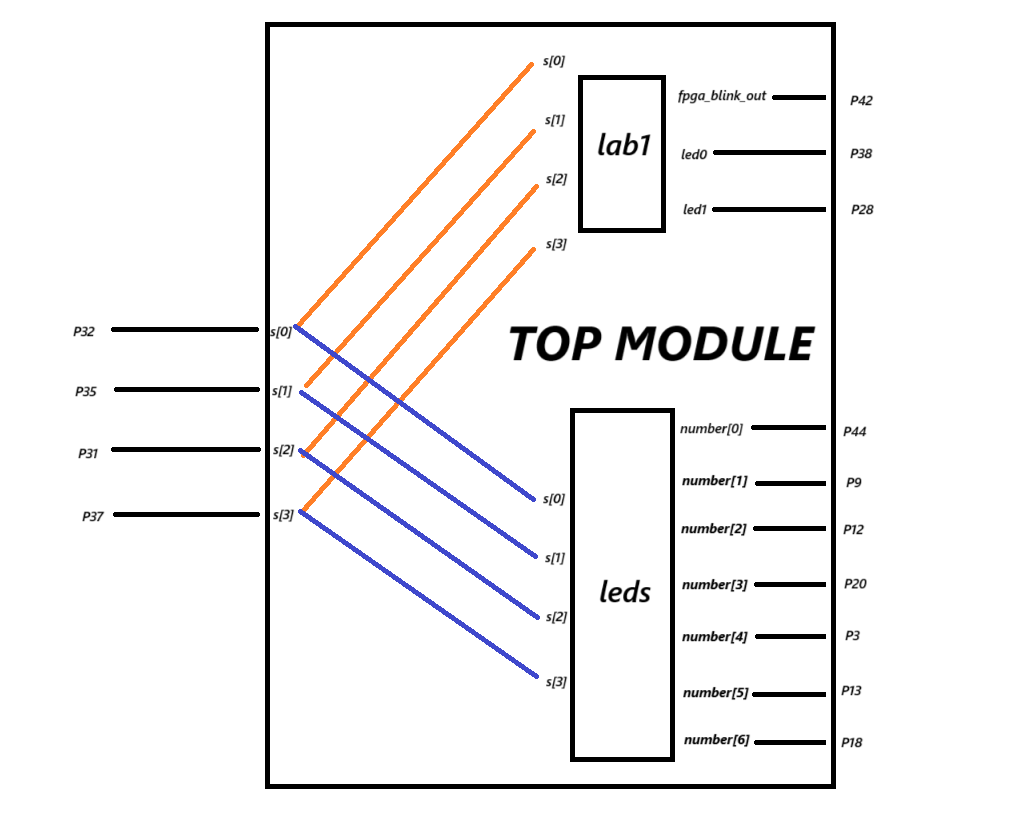
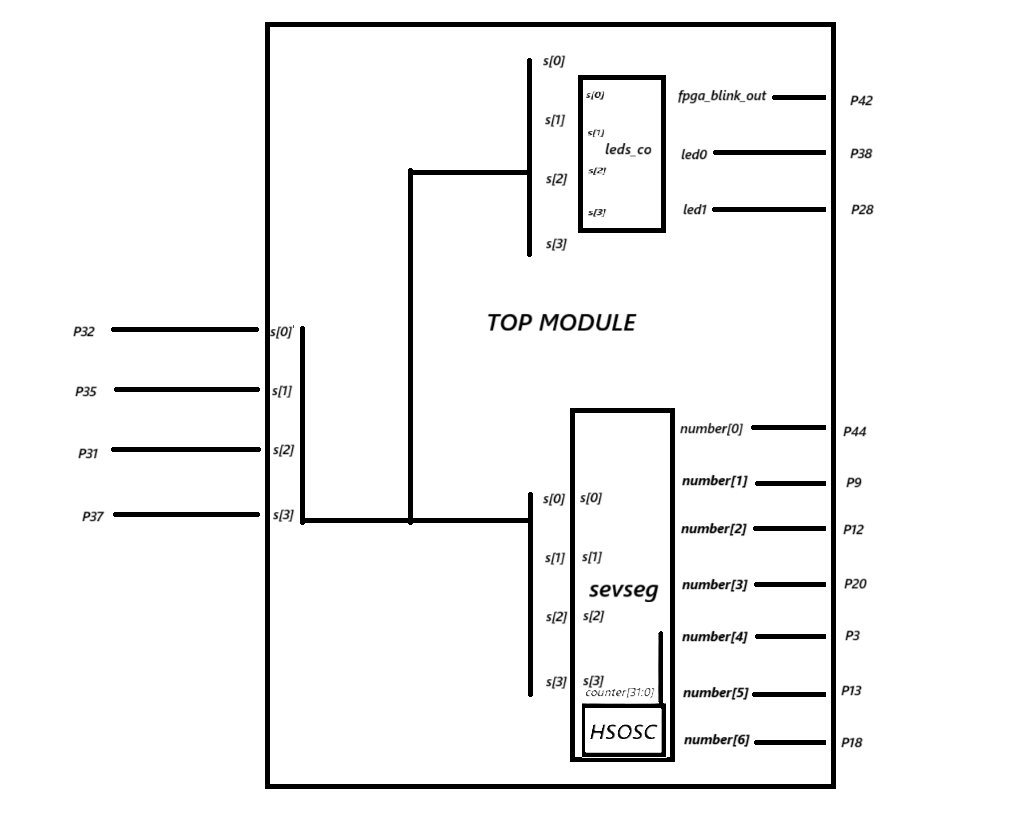
Built site for gh-pages

diff --git a/labs/lab3/lab3.html b/labs/lab3/lab3.html
@@ -67,6 +67,35 @@ ul.task-list li input[type="checkbox"] {
   }
 }</script>
 
+  <script src="https://cdnjs.cloudflare.com/polyfill/v3/polyfill.min.js?features=es6"></script>
+  <script src="https://cdn.jsdelivr.net/npm/mathjax@3/es5/tex-chtml-full.js" type="text/javascript"></script>
+
+<script type="text/javascript">
+const typesetMath = (el) => {
+  if (window.MathJax) {
+    // MathJax Typeset
+    window.MathJax.typeset([el]);
+  } else if (window.katex) {
+    // KaTeX Render
+    var mathElements = el.getElementsByClassName("math");
+    var macros = [];
+    for (var i = 0; i < mathElements.length; i++) {
+      var texText = mathElements[i].firstChild;
+      if (mathElements[i].tagName == "SPAN") {
+        window.katex.render(texText.data, mathElements[i], {
+          displayMode: mathElements[i].classList.contains('display'),
+          throwOnError: false,
+          macros: macros,
+          fleqn: false
+        });
+      }
+    }
+  }
+}
+window.Quarto = {
+  typesetMath
+};
+</script>
 
 <link rel="stylesheet" href="../../styles.css">
 </head>
@@ -151,7 +180,16 @@ ul.task-list li input[type="checkbox"] {
     <h2 id="toc-title">On this page</h2>
    
   <ul>
-  <li><a href="#lab-3-keypad-scanner" id="toc-lab-3-keypad-scanner" class="nav-link active" data-scroll-target="#lab-3-keypad-scanner">Lab 3: Keypad Scanner</a></li>
+  <li><a href="#lab-3-keypad-scanner" id="toc-lab-3-keypad-scanner" class="nav-link active" data-scroll-target="#lab-3-keypad-scanner">Lab 3: Keypad Scanner</a>
+  <ul class="collapse">
+  <li><a href="#electrical-calculations" id="toc-electrical-calculations" class="nav-link" data-scroll-target="#electrical-calculations">Electrical calculations</a></li>
+  <li><a href="#block-diagram" id="toc-block-diagram" class="nav-link" data-scroll-target="#block-diagram">Block Diagram</a></li>
+  <li><a href="#circuit-diagram" id="toc-circuit-diagram" class="nav-link" data-scroll-target="#circuit-diagram">Circuit Diagram</a></li>
+  <li><a href="#general-overview-of-the-systemcode" id="toc-general-overview-of-the-systemcode" class="nav-link" data-scroll-target="#general-overview-of-the-systemcode">General Overview of the system/code</a></li>
+  <li><a href="#fsm" id="toc-fsm" class="nav-link" data-scroll-target="#fsm">FSM</a></li>
+  <li><a href="#testbenches" id="toc-testbenches" class="nav-link" data-scroll-target="#testbenches">Testbenches</a></li>
+  <li><a href="#ai-prototype" id="toc-ai-prototype" class="nav-link" data-scroll-target="#ai-prototype">AI Prototype</a></li>
+  </ul></li>
   </ul>
 </nav>
     </div>
@@ -163,8 +201,129 @@ ul.task-list li input[type="checkbox"] {
 
 <section id="lab-3-keypad-scanner" class="level2">
 <h2 class="anchored" data-anchor-id="lab-3-keypad-scanner">Lab 3: Keypad Scanner</h2>
+<p>In this lab, we were tasked to make a display for a 4x4 keyboard that would show a different hex number after pressing a button, saving two numbers at a time.</p>
+<p>This Lab took around 18 hours to finish.</p>
+<section id="electrical-calculations" class="level3">
+<h3 class="anchored" data-anchor-id="electrical-calculations">Electrical calculations</h3>
+<p>In the Lab1, we used 5v as the V_in of the 7 segment display, which makes the display bleed a bit of current into every LED when off since 3.3v &lt; 5v. This was fixed by changing the V_in to 3.3v and recalculating the required resistance to be:</p>
+<p>For these LED’s, we used a 160Ω resistor</p>
+<p>Voltage drop of around 0.4V in the transistor, a red LED has a voltage drop of around 1.8v at the current we are driving them at, so:</p>
+<p><span class="math display">\[
+0.010 &gt; \frac{3.3-0.4-1.8}{R}
+\]</span> <span class="math display">\[
+R &gt; 110
+\]</span></p>
+<p>For the transisitor, we need to calculate the resistor that we will connect to the base: The desired base current is between 2-3 mA based on the datasheet and our desired output current (up to 70mA) and the voltage drop would be around 0.95Vm, we need to account that the total voltage is 3.3v, so:</p>
+<p><span class="math display">\[
+R = \frac{3.3-0.95}{0.005}
+\]</span> <span class="math display">\[
+R = 470
+\]</span></p>
+<p>In this case, we also chose 10mA for the 7 segment display since the datasheet does recommend a value closer to that, and it was very visible. The selected value was 160Ω. This value was also used for the normal LED’s used in the fulladder since they have similar current needs and voltage drops.</p>
+<p>This also corresponds to teh current ratings of teh 2N3906 Transistor we are using, which allows a maximum of 200mA to be drawn, meaning that having all segments on (7 per transistor) results in a total current draw of &lt;70mA.</p>
+</section>
+<section id="block-diagram" class="level3">
+<h3 class="anchored" data-anchor-id="block-diagram">Block Diagram</h3>
+<div class="quarto-figure quarto-figure-center">
+<figure class="figure">
+<p><img src="images\BlockDiagram.png" class="img-fluid figure-img"></p>
+<figcaption>Block Diagram</figcaption>
+</figure>
+</div>
+</section>
+<section id="circuit-diagram" class="level3">
+<h3 class="anchored" data-anchor-id="circuit-diagram">Circuit Diagram</h3>
+<div class="quarto-figure quarto-figure-center">
+<figure class="figure">
+<p><img src="images\CircuitdiagramLab3.png" class="img-fluid figure-img"></p>
+<figcaption>Circuit Diagram</figcaption>
+</figure>
+</div>
+</section>
+<section id="general-overview-of-the-systemcode" class="level3">
+<h3 class="anchored" data-anchor-id="general-overview-of-the-systemcode">General Overview of the system/code</h3>
+<p>The current code made works in an interesting way. We first defined a top module that is in charge of getting the clock and sending the calculated sout (data on specific hex number to display at a given time) to the sevseg module that controls the seven segment display. The oter module it calls is leds_co, which is in charge of managing all the seven segment LED logic, where we have to flip back and forth to only use 9 pins instead of 14 (more on this in lab2 website).</p>
+<p>In this case, we need to drive the rows at different times and read the columns, to prevent bouncing in the buttons and drive power to rows, we used the counter, specifically the range [25:23] and [21], where the 21’st bit will save col -&gt; savecol on the rising edge. In order to control the row output, we use the range [25:24], where we use the left shift operator to make the sequence, were this value can be anything from 0 to 3.</p>
+<p>1 &lt;&lt; 0 = 0001<br>
+1 &lt;&lt; 1 = 0010<br>
+1 &lt;&lt; 2 = 0100<br>
+1 &lt;&lt; 3 = 1000</p>
+<p>Then it repeats</p>
+<p>The 23’rd bit is used in the keypad decoder code where we only act on the rising edge of this bit since this is halfway from a row being assigned and it being unasigned, meaning any start behaviour and end behavior noise we get should not fall in the middle. generally this can be done by adding counters that check the signal a specific time after the row is switched (less robust), or other methods to reduce this noise may include low pass filters (not ideal for digital electronics since voltage in capacitors takes time to rise) or reducing frequency to reduce the percent of time where you have noise (ideally avoided to reduce unnecesary noise)</p>
+<p>The debouncer logic (shown below) works in a simple manner, where we start in the ~pressed state, this means we aren’t actively pressing the button. when something gets detected, col would not be 0, which is when we set N2 = N1 and N1 = {counter[2:1],coln}, where:</p>
+<p>counter[2:1] is the same part of the counter that controls row. Note that this variable inside the keydec module is different from the 32 bit counter. coln is defined as the column number, were we use if statements to the opposite to when we assigned rows:</p>
+<p>0001 –&gt; 0<br>
+001x –&gt; 1<br>
+01xx –&gt; 2<br>
+1xxx –&gt; 3</p>
+<p>In the code, it was chosen to use if statements instead of assuming that x were 0 since if you would press 3 buttons at once and release the first one that was detected, it could default to the first column, which is unpredictable behaviour we like to avoid.</p>
+</section>
+<section id="fsm" class="level3">
+<h3 class="anchored" data-anchor-id="fsm">FSM</h3>
+<div class="quarto-figure quarto-figure-center">
+<figure class="figure">
+<p><img src="images\FSMLab3.png" class="img-fluid figure-img"></p>
+<figcaption>FSM of the debouncer</figcaption>
+</figure>
+</div>
+<div class="quarto-figure quarto-figure-center">
+<figure class="figure">
+<p><img src="images\Lab3TransitionDiag.png" class="img-fluid figure-img"></p>
+<figcaption>FSM transition diagram</figcaption>
+</figure>
+</div>
+<p>Note: the FSM changes states on the rising edge of counter[23], not the clock directly.</p>
+</section>
+<section id="testbenches" class="level3">
+<h3 class="anchored" data-anchor-id="testbenches">Testbenches</h3>
+<div class="quarto-figure quarto-figure-center">
+<figure class="figure">
+<p><img src="images\Lab3clocktb.png" class="img-fluid figure-img"></p>
+<figcaption>Testbench of the Counter</figcaption>
+</figure>
+</div>
+<div class="quarto-figure quarto-figure-center">
+<figure class="figure">
+<p><img src="images\Lab3keydectb.png" class="img-fluid figure-img"></p>
+<figcaption>Testbench of the keyboard decoder</figcaption>
+</figure>
+</div>
+<div class="quarto-figure quarto-figure-center">
+<figure class="figure">
+<p><img src="images\Lab3ledlogictb.png" class="img-fluid figure-img"></p>
+<figcaption>Testbench of the ledlogic module</figcaption>
+</figure>
+</div>
+<div class="quarto-figure quarto-figure-center">
+<figure class="figure">
+<p><img src="images\Lab3tb.png" class="img-fluid figure-img"></p>
+<figcaption>Testbench of the top module</figcaption>
+</figure>
+</div>
+</section>
+<section id="ai-prototype" class="level3">
+<h3 class="anchored" data-anchor-id="ai-prototype">AI Prototype</h3>
+<p>Did the All at once:</p>
+<div class="quarto-figure quarto-figure-center">
+<figure class="figure">
+<p><img src="images\AI_proj.png" class="img-fluid figure-img"></p>
+<figcaption>Testbench of the top module</figcaption>
+</figure>
+</div>
+<p>The AI gave me all the modules at once, but it looks like it ran out of space and gave me a partial top module as seen as the upper error.</p>
+<p>After asking the AI to redo teh top module, it got confused of the other module names and got more errors. I have to either probably use option B to try get each module individually, or buy premium AI use (used free access)</p>
+<p>Using option B, we get:</p>
+<div class="quarto-figure quarto-figure-center">
+<figure class="figure">
+<p><img src="images\AI_proj2.png" class="img-fluid figure-img"></p>
+<figcaption>Testbench of the top module</figcaption>
+</figure>
+</div>
+<p>which basically means that the AI messed up some basic syntax. This is probably a quick fix that the AI would be able to fix if we input the errors and it will give us a nicer output.</p>
+<p>Overall, I noticed with both of these solutions that the AI response was way longer than my code, which could mean the AI actually knows how to code, or it is overseeing a lot of easy ways to make a verilog code more compact.</p>
 
 
+</section>
 </section>
 
 </main> <!-- /main -->

diff --git a/labs/lab2/lab2.html b/labs/lab2/lab2.html
@@ -250,7 +250,7 @@ module top(
 );
 logic [3:0] sout;
 leds_co leds_co(s1[3:0], s2[3:0], disps, sout[3:0], leds[4:0]);
-lab1_co lab1_co(sout[3:0], number[6:0]);
+sevseg sevseg(sout[3:0], number[6:0]);
 endmodule</code></pre>
 <p>This top module results in a block diagram that looks as follows:</p>
 <div class="quarto-figure quarto-figure-center">
@@ -259,15 +259,29 @@ endmodule</code></pre>
 <figcaption>Top module Block Diagram</figcaption>
 </figure>
 </div>
-<section id="error-from-last-lab" class="level4">
-<h4 class="anchored" data-anchor-id="error-from-last-lab">Error from last lab:</h4>
-<p>In teh previous lab, we used 5v as the V_in of the 7 segment display, which makes the display bleed a bit of current into every LED when off since 3.3v &lt; 5v. This was fixed by changing the V_in to 3.3v and recalculating the required resistance to be:</p>
+<section id="curcuit-calculations" class="level4">
+<h4 class="anchored" data-anchor-id="curcuit-calculations">Curcuit calculations:</h4>
+<p>In the previous lab, we used 5v as the V_in of the 7 segment display, which makes the display bleed a bit of current into every LED when off since 3.3v &lt; 5v. This was fixed by changing the V_in to 3.3v and recalculating the required resistance to be:</p>
+<p>Math for the yellow LED’s for the 5bit display, in this case, the FPGA is not recommended to use over 8mA and the yellow LED has a 2v drop, so:</p>
 <p><span class="math display">\[
-0.010 &gt; \frac{3.3-2.1}{R}
+0.008 &gt; \frac{3.3-2}{R}
 \]</span> <span class="math display">\[
-R &gt; 120
+R &gt; 130
 \]</span></p>
-<p>In this case, we also chose 10mA since the datasheet does recommend a value closer to that, and it was very visible. The selected value was 160Ω. This value was also used for the normal LED’s used in the fulladder since they have similar current needs and voltage drops.</p>
+<p>For these LED’s, we used a 160Ω resistor</p>
+<p>Voltage drop of around 0.4V in the transistor, a red LED has a voltage drop of around 1.8v at the current we are driving them at, so:</p>
+<p><span class="math display">\[
+0.010 &gt; \frac{3.3-0.4-1.8}{R}
+\]</span> <span class="math display">\[
+R &gt; 110
+\]</span></p>
+<p>For the transisitor, we need to calculate the resistor that we will connect to the base: The desired base current is between 2-3 mA based on the datasheet and our desired output current (up to 70mA) and the voltage drop would be around 0.95V:</p>
+<p><span class="math display">\[
+R = \frac{0.95}{0.0025}
+\]</span> <span class="math display">\[
+R = 380
+\]</span></p>
+<p>In this case, we also chose 10mA for the 7 segment display since the datasheet does recommend a value closer to that, and it was very visible. The selected value was 160Ω. This value was also used for the normal LED’s used in the fulladder since they have similar current needs and voltage drops.</p>
 <p>This also corresponds to teh current ratings of teh 2N3906 Transistor we are using, which allows a maximum of 200mA to be drawn, meaning that having all segments on (7 per transistor) results in a total current draw of &lt;70mA.</p>
 </section>
 </section>
@@ -321,7 +335,19 @@ endmodule</code></pre>
 <div class="quarto-figure quarto-figure-center">
 <figure class="figure">
 <p><img src="images\lab2testbench.png" class="img-fluid figure-img"></p>
-<figcaption>Lab2 Testbench</figcaption>
+<figcaption>Top Testbench Trace</figcaption>
+</figure>
+</div>
+<div class="quarto-figure quarto-figure-center">
+<figure class="figure">
+<p><img src="images\Lab1tb_sevseg.png" class="img-fluid figure-img"></p>
+<figcaption>Seven Segment Testbench Trace</figcaption>
+</figure>
+</div>
+<div class="quarto-figure quarto-figure-center">
+<figure class="figure">
+<p><img src="images\Lab2tb_ledlogic.png" class="img-fluid figure-img"></p>
+<figcaption>Multiplexing/LED logic Testbench Trace</figcaption>
 </figure>
 </div>
 <p>This test bench showed that the system works for any of these inputs, but there are a total of 16x16x2 = 512 possible inputs, so take into consideration that some real world testing may be needed to verify it always works, or expand the testbench.</p>

diff --git a/labs/lab1/lab1.html b/labs/lab1/lab1.html
@@ -281,7 +281,19 @@ c = 215
 <div class="quarto-figure quarto-figure-center">
 <figure class="figure">
 <p><img src="images\Testbench.png" class="img-fluid figure-img"></p>
-<figcaption>Testbench Trace</figcaption>
+<figcaption>Top Testbench Trace</figcaption>
+</figure>
+</div>
+<div class="quarto-figure quarto-figure-center">
+<figure class="figure">
+<p><img src="images\Lab1tb_ledlogic.png" class="img-fluid figure-img"></p>
+<figcaption>LED Logic Testbench Trace</figcaption>
+</figure>
+</div>
+<div class="quarto-figure quarto-figure-center">
+<figure class="figure">
+<p><img src="images\Lab1tb_sevseg.png" class="img-fluid figure-img"></p>
+<figcaption>Seven Segment Testbench Trace</figcaption>
 </figure>
 </div>
 <p>Haiving the error vector always in 0’s tells us that the testbench was successful. This better confirms that we will get a working FPGA programming.</p>
